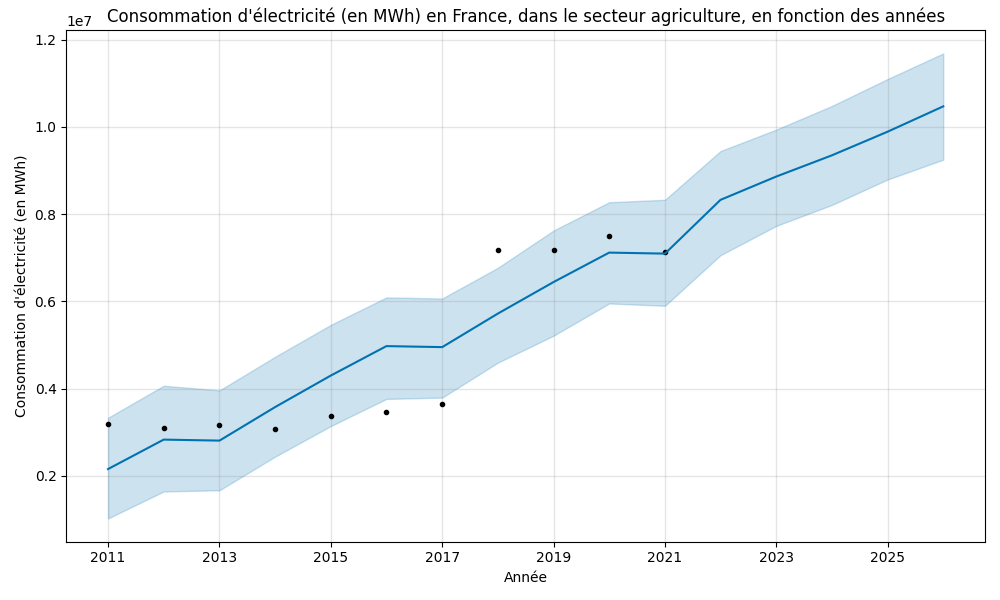
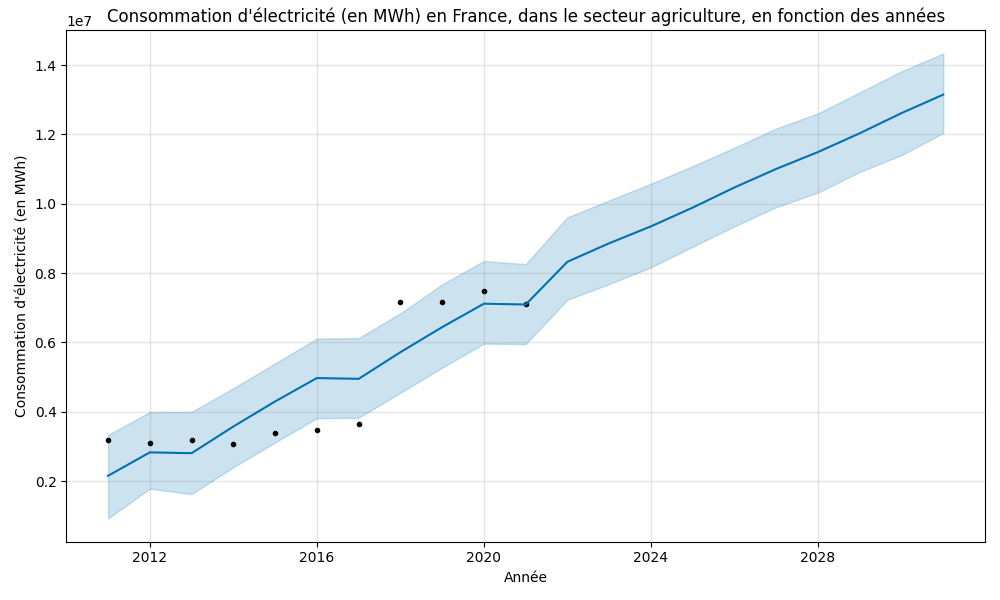
revert : prédiction sur 10 ans

diff --git a/prevision-consommation/filieres/prevision.py b/prevision-consommation/filieres/prevision.py
@@ -113,7 +113,7 @@ def afficheGraphePrediction(df, forecast, title):
 def predire_et_graphes(data, title, filename, title2, filename2):
     m = Prophet()
     m.fit(data)
-    future = m.make_future_dataframe(periods=5, freq="Y")
+    future = m.make_future_dataframe(periods=10, freq="Y")
     forecast = m.predict(future)
     fig = m.plot(forecast)
     plt.xlabel("Année")
